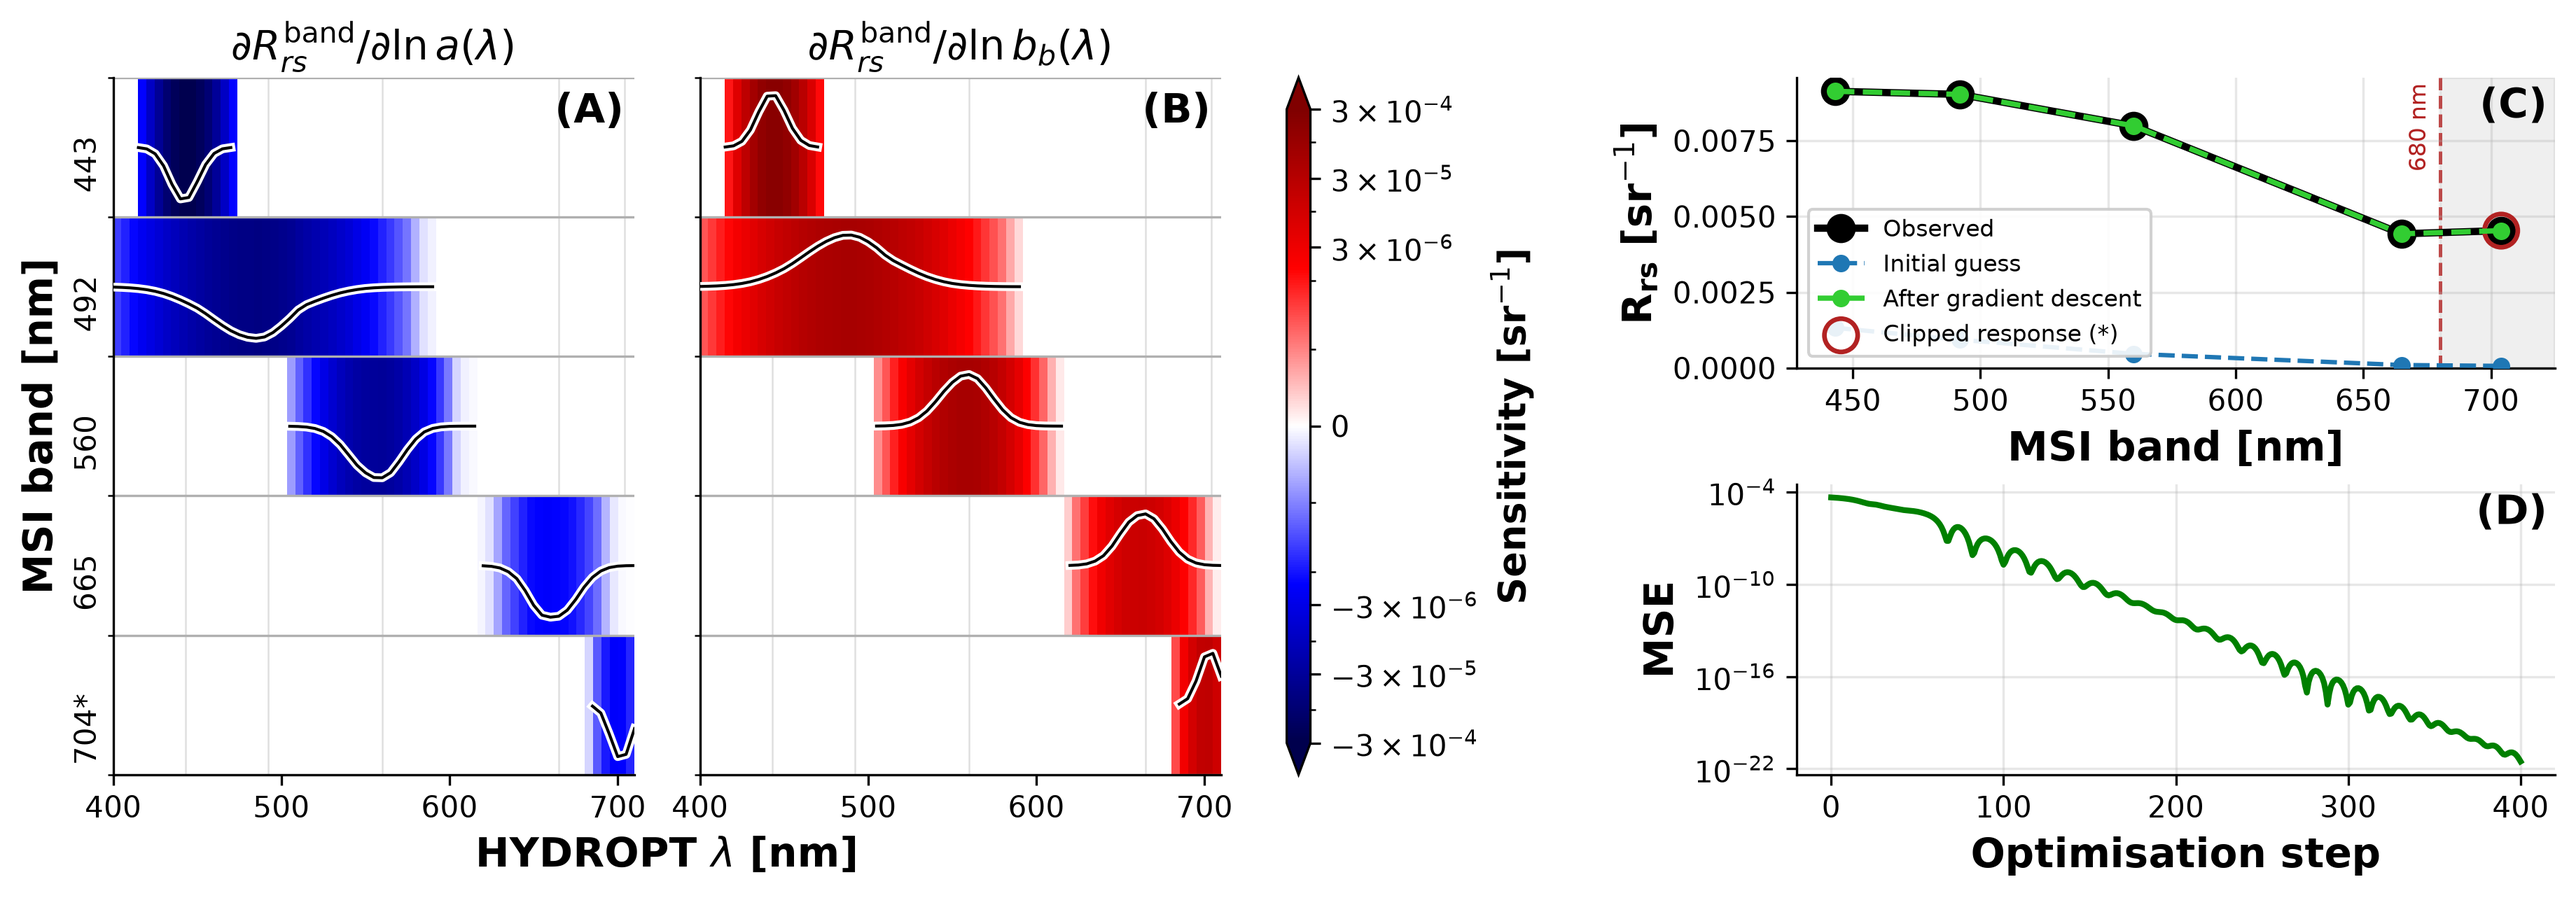
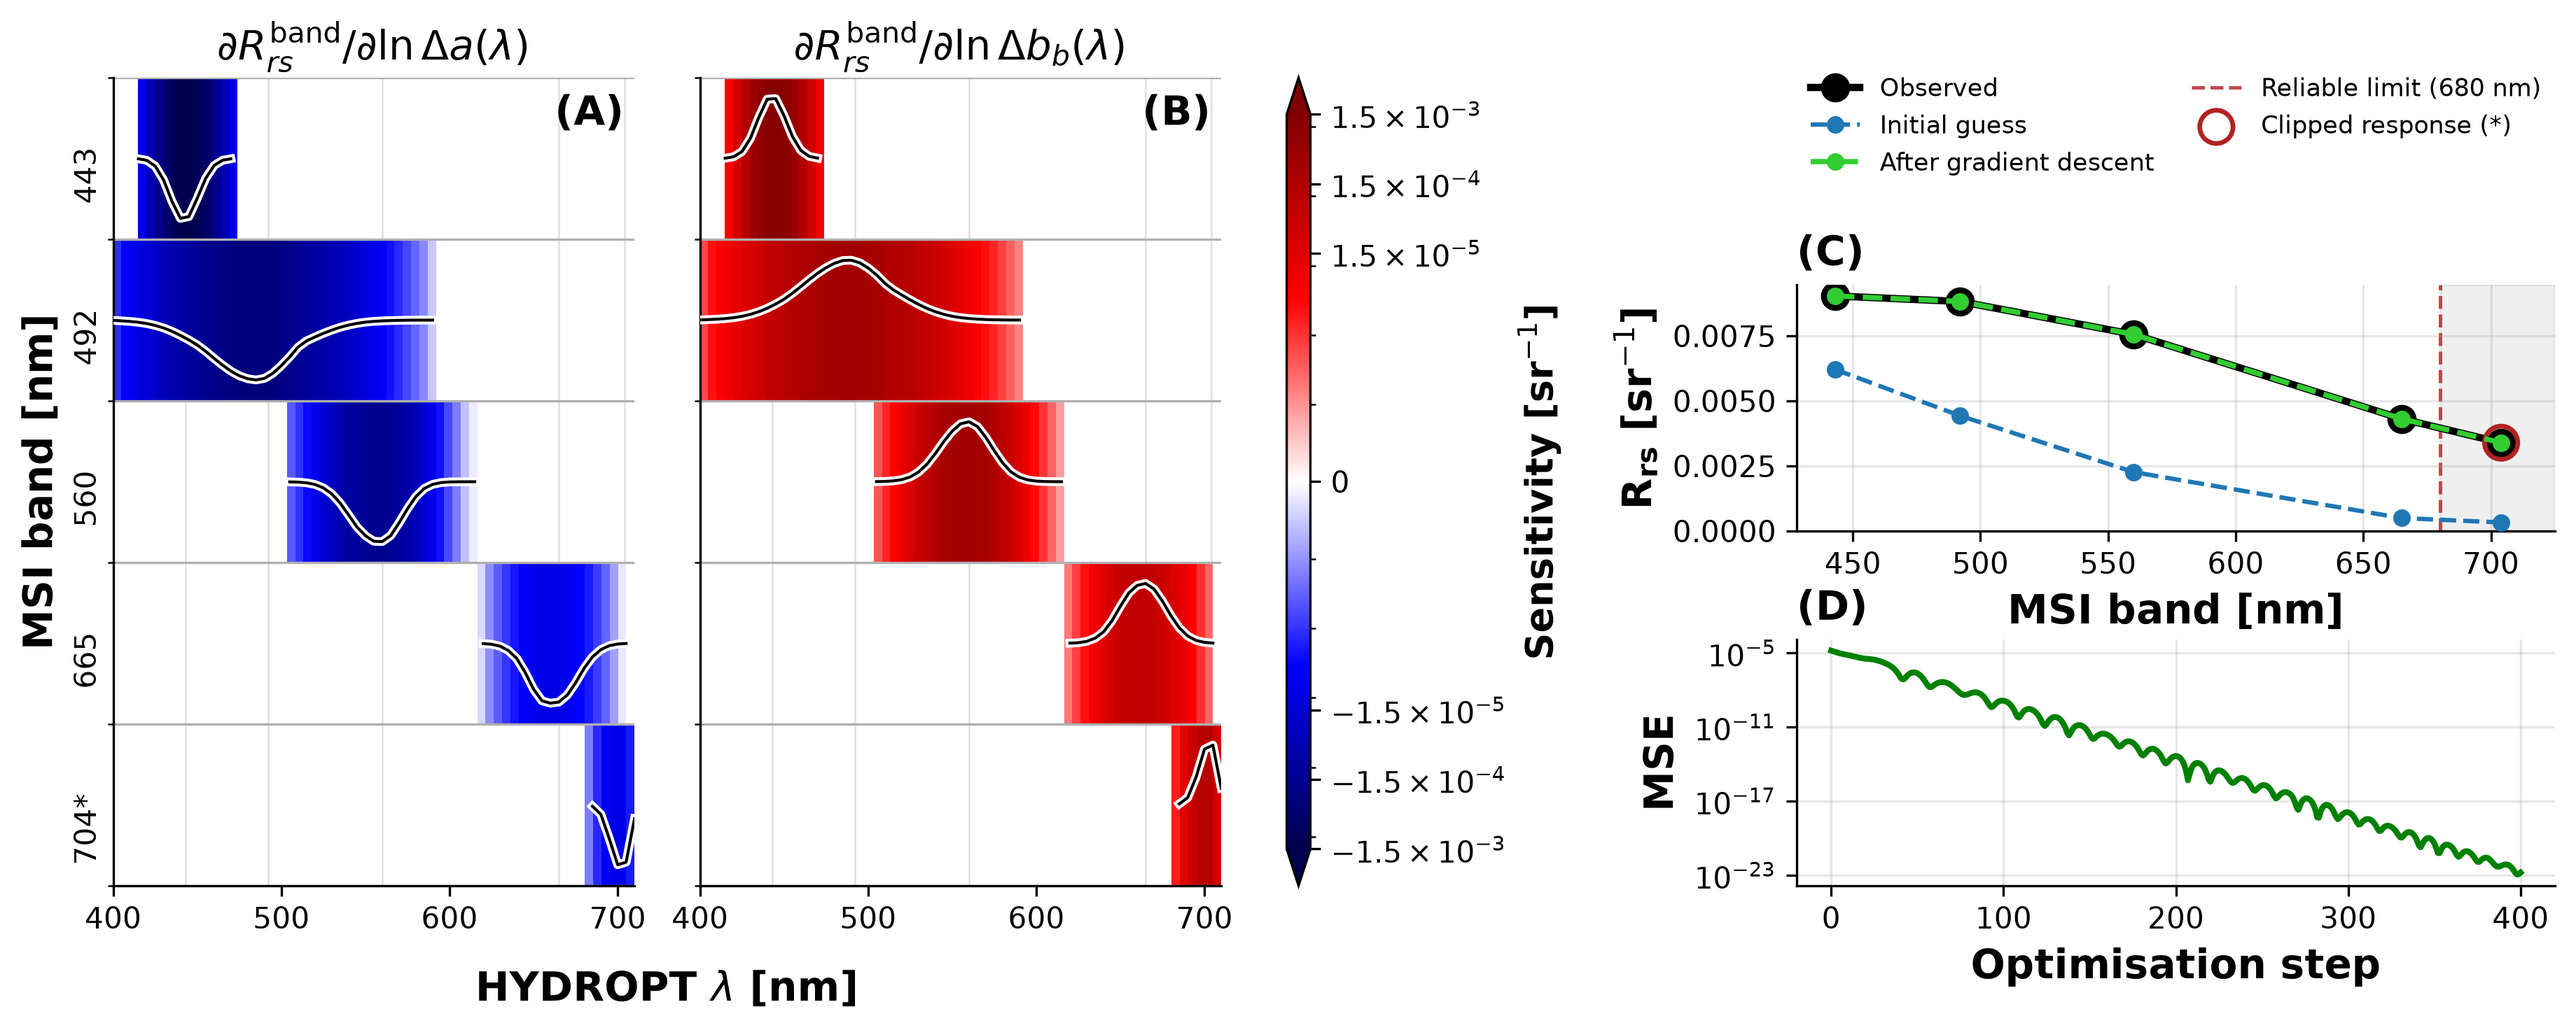
Label the Jacobian panels correctly and rework the figure layout
Panels A and B were labelled dRrs/dln a and dRrs/dln b_b, but the forward
model differentiates with respect to the excess IOPs over pure water, so
the derivatives are with respect to ln da and ln db_b. Labels, console
output and the README caption now say so.

The colour limit moves to 1.5e-3 to match the corrected band magnitudes,
and the legend moves to its own row so it no longer sits on top of the
spectra. python_requires becomes >=3.10, matching the CI matrix.

Figure regenerated.

diff --git a/examples/msi_gradient_inversion.py b/examples/msi_gradient_inversion.py
@@ -27,7 +27,7 @@ Only bands whose spectral response lies inside the range where the coefficients
 are trustworthy. Two separate limits apply:
 
   * The coefficient table stops at 710 nm. MSI bands 740 and 783 have
-    essentially none of their response inside it (1e-6 and 4e-7 of their
+    essentially none of their response inside it (1e-6 and 4e-18 of their
     Gaussian mass), so band-integrating over the table produces a number that
     is not a 740 or 783 nm measurement at all -- it is Rrs at 710 nm, twice.
   * The coefficients degenerate before that stop. The largest coefficient per
@@ -311,7 +311,7 @@ def select_pixel(forward, states, targets, mode='best', steps=400, lr=0.05,
 
 def plot_results(median_jacobian, support, fine_wl, bands, observed,
                  predicted_initial, predicted_final, losses, out_path,
-                 colour_limit=3e-4, linear_threshold=1e-7):
+                 colour_limit=1.5e-3, linear_threshold=1e-7):
     '''
     Four-panel summary: two Jacobian heatmaps, the pixel fit, and convergence.
 
@@ -330,10 +330,15 @@ def plot_results(median_jacobian, support, fine_wl, bands, observed,
     n_bands = len(band_wl)
     lo, hi = RELIABLE_WAVELENGTH_RANGE
 
-    figure = plt.figure(figsize=(15, 4))
+    figure = plt.figure(figsize=(15, 5))
     grid = figure.add_gridspec(
-        2, 5, width_ratios=[1.1, 1.1, 0.05, 0.75, 1.6], height_ratios=[1.0, 1.0],
-        wspace=0.15, hspace=0.4, top=0.96, bottom=0.13)
+        1, 5, width_ratios=[1.1, 1.1, 0.05, 0.75, 1.6],
+        wspace=0.15, top=0.90, bottom=0.13)
+    # A dedicated legend row keeps all explanatory text clear of the spectra.
+    right_grid = grid[0, 4].subgridspec(
+        3, 1, height_ratios=[0.40, 1.0, 1.0], hspace=0.55)
+    legend_axis = figure.add_subplot(right_grid[0])
+    legend_axis.axis('off')
 
     colours = plt.get_cmap('seismic').copy()
     colours.set_bad(color='none', alpha=0.0)
@@ -383,14 +388,14 @@ def plot_results(median_jacobian, support, fine_wl, bands, observed,
 
     axis_a = figure.add_subplot(grid[:, 0])
     image = draw_heatmap(axis_a, median_jacobian[0],
-                         r'$\partial R_{rs}^{\mathrm{band}} / \partial \ln a(\lambda)$')
+                         r'$\partial R_{rs}^{\mathrm{band}} / \partial \ln \Delta a(\lambda)$')
     axis_a.set_ylabel('MSI band [nm]', fontsize=14, fontweight='bold')
     axis_a.text(0.98, 0.98, '(A)', transform=axis_a.transAxes, fontsize=14,
                 fontweight='bold', va='top', ha='right')
 
     axis_b = figure.add_subplot(grid[:, 1])
     draw_heatmap(axis_b, median_jacobian[1],
-                 r'$\partial R_{rs}^{\mathrm{band}} / \partial \ln b_b(\lambda)$')
+                 r'$\partial R_{rs}^{\mathrm{band}} / \partial \ln \Delta b_b(\lambda)$')
     axis_b.set_yticklabels([])
     axis_b.text(0.98, 0.98, '(B)', transform=axis_b.transAxes, fontsize=14,
                 fontweight='bold', va='top', ha='right')
@@ -403,7 +408,7 @@ def plot_results(median_jacobian, support, fine_wl, bands, observed,
 
     figure.add_subplot(grid[:, 3]).axis('off')
 
-    axis_fit = figure.add_subplot(grid[0, 4])
+    axis_fit = figure.add_subplot(right_grid[1])
     axis_fit.plot(band_wl, np.asarray(observed), 'o-', color='black', markersize=9,
                   linewidth=2.5, label='Observed', zorder=3)
     axis_fit.plot(band_wl, np.asarray(predicted_initial), 'o--', color='tab:blue',
@@ -416,32 +421,30 @@ def plot_results(median_jacobian, support, fine_wl, bands, observed,
         # and ring the bands whose response the grid cuts short.
         axis_fit.axvspan(hi, max(band_wl) * 1.03, alpha=0.12, color='grey', zorder=0)
         axis_fit.axvline(hi, color='firebrick', linestyle='--', linewidth=1.2,
-                         alpha=0.8, zorder=1)
+                         alpha=0.8, zorder=1, label='Reliable limit (680 nm)')
         axis_fit.scatter(band_wl[is_clipped], np.asarray(predicted_final)[is_clipped],
                          s=130, facecolors='none', edgecolors='firebrick',
                          linewidths=1.6, zorder=5, label='Clipped response (*)')
-        axis_fit.annotate(
-            '{:.0f} nm'.format(hi), xy=(hi, 1.0), xycoords=('data', 'axes fraction'),
-            xytext=(-3, -2), textcoords='offset points', ha='right', va='top',
-            fontsize=8, color='firebrick', rotation=90)
 
     axis_fit.set_xlabel('MSI band [nm]', fontsize=14, fontweight='bold')
     axis_fit.set_ylabel(r'$\mathbf{R_{rs}}$ [sr$^{-1}$]', fontsize=14, fontweight='bold')
     axis_fit.set_ylim(bottom=0.0)
     axis_fit.set_xlim(min(band_wl) - 15, max(band_wl) * 1.03)
     axis_fit.grid(True, alpha=0.3)
-    axis_fit.legend(framealpha=0.9, fontsize=8, loc='lower left')
-    axis_fit.text(0.99, 0.97, '(C)', transform=axis_fit.transAxes, fontsize=14,
-                  fontweight='bold', va='top', ha='right')
+    handles, labels = axis_fit.get_legend_handles_labels()
+    legend_axis.legend(handles, labels, frameon=False, fontsize=8.5,
+                       loc='center', ncol=2, columnspacing=1.5)
+    axis_fit.text(0.0, 1.04, '(C)', transform=axis_fit.transAxes, fontsize=14,
+                  fontweight='bold', va='bottom', ha='left')
 
-    axis_loss = figure.add_subplot(grid[1, 4])
+    axis_loss = figure.add_subplot(right_grid[2])
     axis_loss.plot(np.arange(len(losses)), losses, linewidth=2, color='green')
     axis_loss.set_yscale('log')
     axis_loss.set_xlabel('Optimisation step', fontsize=14, fontweight='bold')
     axis_loss.set_ylabel('MSE', fontsize=14, fontweight='bold')
     axis_loss.grid(True, alpha=0.3)
-    axis_loss.text(0.99, 0.97, '(D)', transform=axis_loss.transAxes, fontsize=14,
-                   fontweight='bold', va='top', ha='right')
+    axis_loss.text(0.0, 1.04, '(D)', transform=axis_loss.transAxes, fontsize=14,
+                   fontweight='bold', va='bottom', ha='left')
 
     left, right = axis_a.get_position(), axis_b.get_position()
     figure.text((left.x0 + right.x1) / 2, 0.02, 'HYDROPT $\\lambda$ [nm]',
@@ -557,9 +560,9 @@ def main(argv=None):
 
     on_support = np.asarray(support)
     print('\nSensitivity across the ensemble, on each band\'s spectral support:')
-    print('  median |dRrs/dln a|   {:.3e}'.format(
+    print('  median |dRrs/dln excess a|   {:.3e}'.format(
         float(np.median(np.abs(np.asarray(median_jacobian[0]))[on_support]))))
-    print('  median |dRrs/dln bb|  {:.3e}'.format(
+    print('  median |dRrs/dln excess bb|  {:.3e}'.format(
         float(np.median(np.abs(np.asarray(median_jacobian[1]))[on_support]))))
     print('  median CoV (a)        {:.3f}'.format(
         float(np.median(np.asarray(cov[0])[on_support]))))

diff --git a/setup.py b/setup.py
@@ -24,7 +24,7 @@ setup(
     long_description=get_long_description(),
     long_description_content_type='text/markdown',
     license='AGPL-3.0',
-    python_requires='>=3.9',
+    python_requires='>=3.10',
     # hydropt.data is a real package, not just a data directory: it carries the
     # data_path() helper that both hydropt and hydropt_jax import. Omitting it
     # here still ships the CSVs, but leaves hydropt.data as an implicit

diff --git a/README.md b/README.md
@@ -30,7 +30,7 @@ model to it: the two agree to 1e-10 relative on both the forward model and its g
 
 ## Install
 
-Python 3.9 or newer.
+Python 3.10 or newer.
 
 ```bash
 git clone https://github.com/mowerther/D-HYDROPT.git
@@ -212,8 +212,10 @@ ensemble of optical states, inverts one pixel by gradient descent, and writes
 
 ![MSI sensitivity and gradient inversion](examples/figures/msi_gradient_inversion.png)
 
-**(A, B)** median ∂R<sub>rs</sub><sup>band</sup>/∂ln a and ∂R<sub>rs</sub><sup>band</sup>/∂ln b<sub>b</sub>
-across the ensemble, on a symmetric-log colour axis — sensitivity spans two orders of
+**(A, B)** median ∂R<sub>rs</sub><sup>band</sup>/∂ln Δa and ∂R<sub>rs</sub><sup>band</sup>/∂ln Δb<sub>b</sub>,
+where Δa = a − a<sub>water</sub> and Δb<sub>b</sub> = b<sub>b</sub> − b<sub>b,water</sub>
+are the excess IOPs above pure water. These derivatives are taken across the ensemble
+and shown on a symmetric-log colour axis — sensitivity spans two orders of
 magnitude from the blue bands to the red. **(C)** the observed spectrum, the starting guess
 and the fit; the ringed point is the 704 nm band, whose response the coefficient grid cuts
 short. **(D)** convergence.
